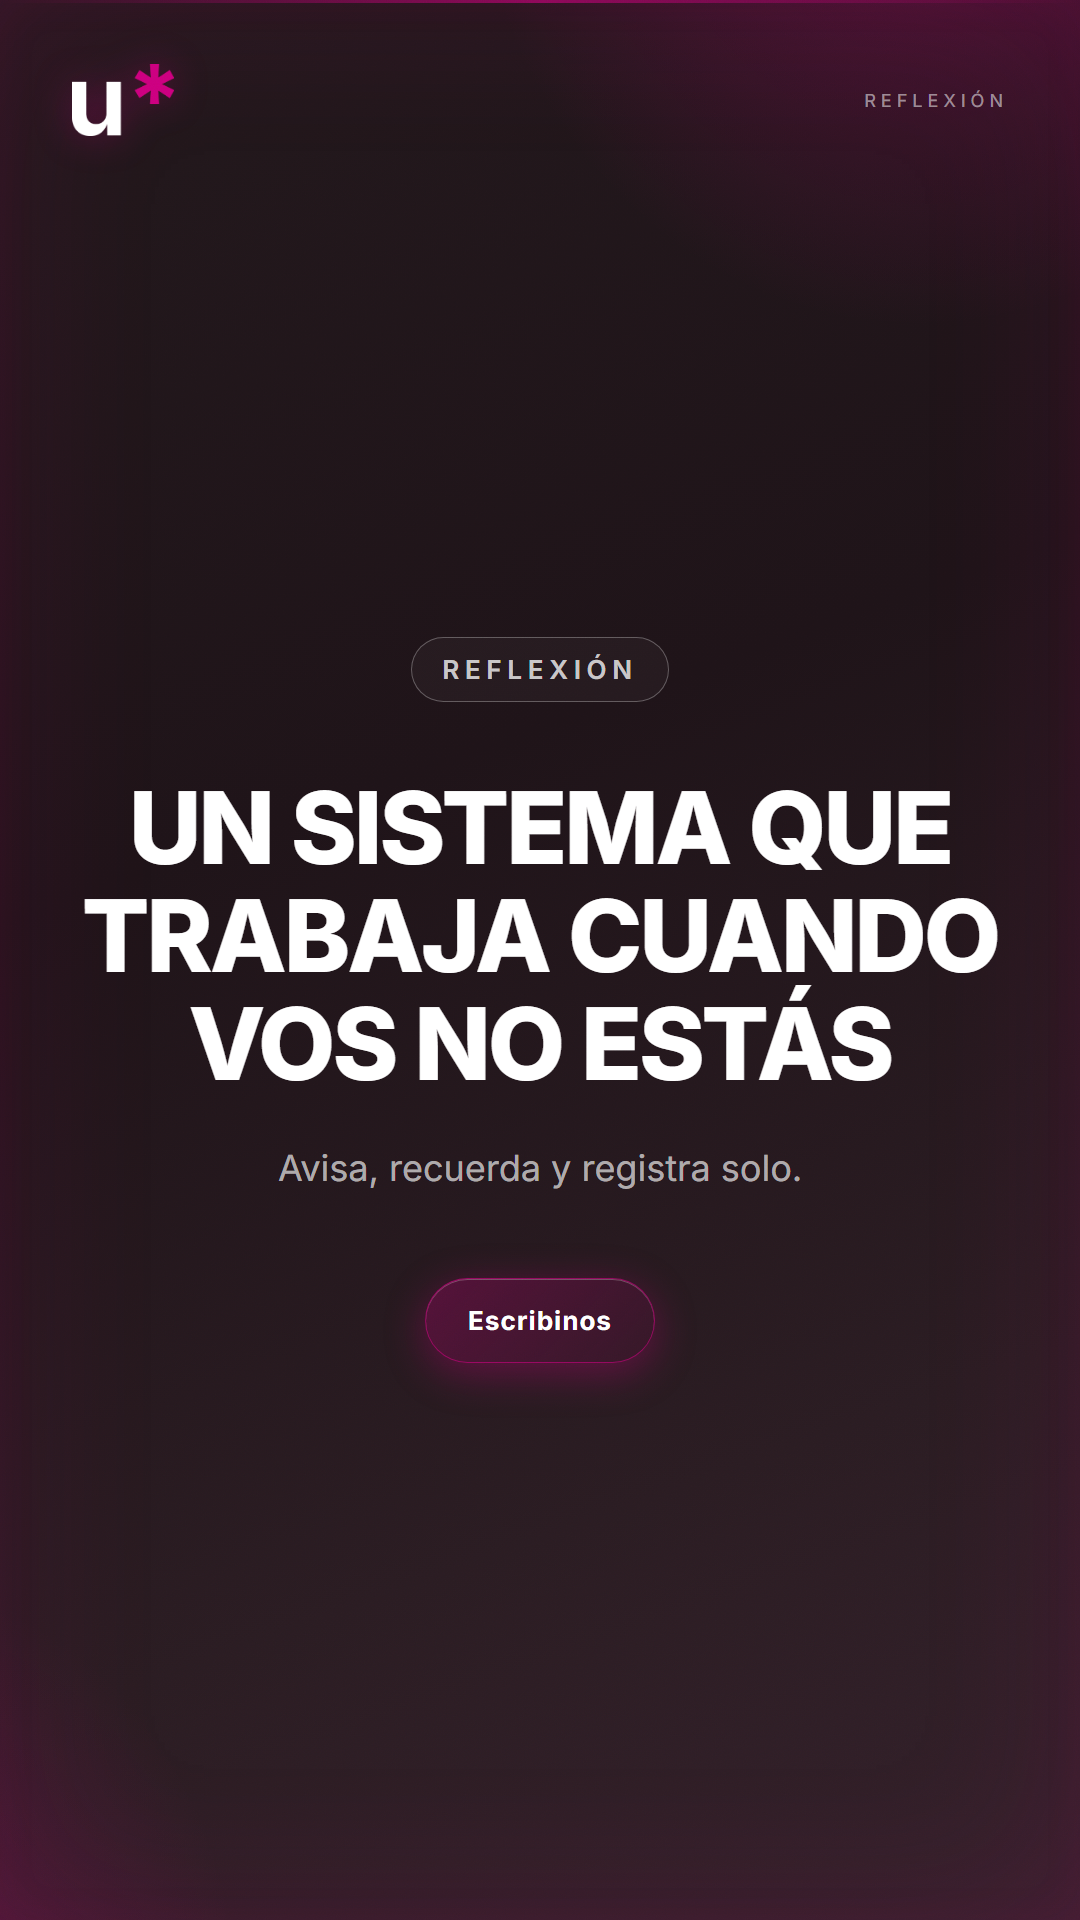
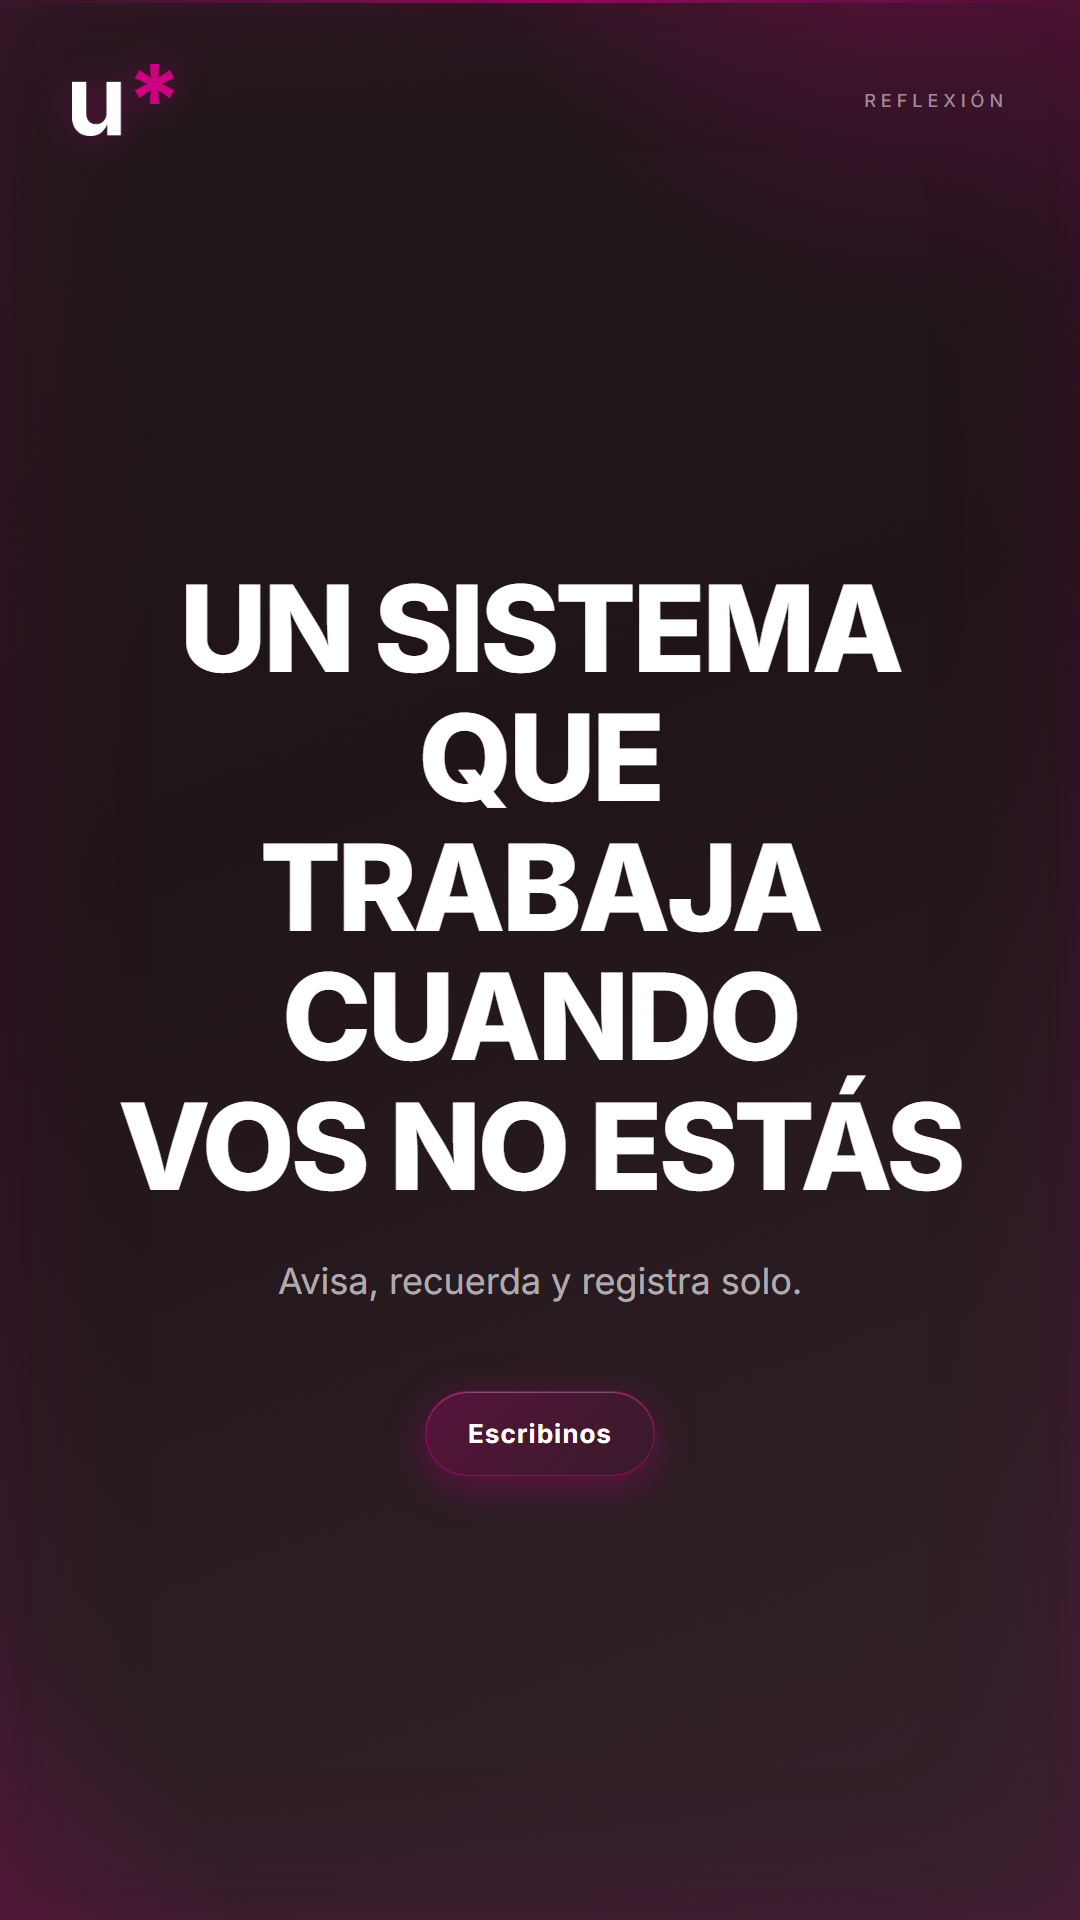
fix(stories): sacar kicker, titulo a 120px

Changed region(s): [[0.0611, 0.2812, 0.9472, 0.625], [0.2444, 0.6562, 0.7333, 0.7812]]

diff --git a/stories/story-04/story.html b/stories/story-04/story.html
@@ -226,10 +226,9 @@ h1 .strike::after{content:"";position:absolute;left:-8px;right:-8px;top:54%;heig
 .scene .author .who{font-size:22px;font-weight:700;color:var(--w100)}
 .scene .author .who small{display:block;font-size:17px;font-weight:500;color:var(--w50)}
 
-.cover h1{font-size:100px;margin-top:64px}
+.cover h1{font-size:120px;margin-top:40px}
 .cover .sub{margin-top:48px;font-size:36px;max-width:860px}
 .cover .cta{margin-top:88px}
-.cover .kicker{margin-bottom:8px;font-size:26px}
 html,body{width:1080px;height:1920px;overflow:hidden}.slide{width:1080px;height:1920px}</style>
 </head>
 <body class="">
@@ -241,7 +240,6 @@ html,body{width:1080px;height:1920px;overflow:hidden}.slide{width:1080px;height:
     <div class="tag">REFLEXIÓN</div>
   </header>
   <main class="cover">
-    <div class="kicker">Reflexión</div>
     <h1>
       <span>UN SISTEMA QUE</span><br><span>TRABAJA CUANDO</span><br><span>VOS <teal>NO ESTÁS</teal></span>
     </h1>

diff --git a/stories/story-09/story.html b/stories/story-09/story.html
@@ -226,10 +226,9 @@ h1 .strike::after{content:"";position:absolute;left:-8px;right:-8px;top:54%;heig
 .scene .author .who{font-size:22px;font-weight:700;color:var(--w100)}
 .scene .author .who small{display:block;font-size:17px;font-weight:500;color:var(--w50)}
 
-.cover h1{font-size:100px;margin-top:64px}
+.cover h1{font-size:120px;margin-top:40px}
 .cover .sub{margin-top:48px;font-size:36px;max-width:860px}
 .cover .cta{margin-top:88px}
-.cover .kicker{margin-bottom:8px;font-size:26px}
 html,body{width:1080px;height:1920px;overflow:hidden}.slide{width:1080px;height:1920px}</style>
 </head>
 <body class="light">
@@ -241,7 +240,6 @@ html,body{width:1080px;height:1920px;overflow:hidden}.slide{width:1080px;height:
     <div class="tag">WHATSAPP</div>
   </header>
   <main class="cover">
-    <div class="kicker">WhatsApp</div>
     <h1>
       <span>TU WHATSAPP PUEDE</span><br><span>VENDER MIENTRAS</span><br><span><mag>DORMÍS</mag></span>
     </h1>

diff --git a/stories/story-07/story.html b/stories/story-07/story.html
@@ -226,10 +226,9 @@ h1 .strike::after{content:"";position:absolute;left:-8px;right:-8px;top:54%;heig
 .scene .author .who{font-size:22px;font-weight:700;color:var(--w100)}
 .scene .author .who small{display:block;font-size:17px;font-weight:500;color:var(--w50)}
 
-.cover h1{font-size:100px;margin-top:64px}
+.cover h1{font-size:120px;margin-top:40px}
 .cover .sub{margin-top:48px;font-size:36px;max-width:860px}
 .cover .cta{margin-top:88px}
-.cover .kicker{margin-bottom:8px;font-size:26px}
 html,body{width:1080px;height:1920px;overflow:hidden}.slide{width:1080px;height:1920px}</style>
 </head>
 <body class="">
@@ -241,7 +240,6 @@ html,body{width:1080px;height:1920px;overflow:hidden}.slide{width:1080px;height:
     <div class="tag">DEUDORES</div>
   </header>
   <main class="cover">
-    <div class="kicker">Deudores</div>
     <h1>
       <span>¿SABÍAS QUE TU SISTEMA</span><br><span>PUEDE COBRAR</span><br><span>POR VOS?</span>
     </h1>

diff --git a/stories/story-15/story.html b/stories/story-15/story.html
@@ -226,10 +226,9 @@ h1 .strike::after{content:"";position:absolute;left:-8px;right:-8px;top:54%;heig
 .scene .author .who{font-size:22px;font-weight:700;color:var(--w100)}
 .scene .author .who small{display:block;font-size:17px;font-weight:500;color:var(--w50)}
 
-.cover h1{font-size:100px;margin-top:64px}
+.cover h1{font-size:120px;margin-top:40px}
 .cover .sub{margin-top:48px;font-size:36px;max-width:860px}
 .cover .cta{margin-top:88px}
-.cover .kicker{margin-bottom:8px;font-size:26px}
 html,body{width:1080px;height:1920px;overflow:hidden}.slide{width:1080px;height:1920px}</style>
 </head>
 <body class="light">
@@ -241,7 +240,6 @@ html,body{width:1080px;height:1920px;overflow:hidden}.slide{width:1080px;height:
     <div class="tag">CIERRE DEL DÍA</div>
   </header>
   <main class="cover">
-    <div class="kicker">Cierre del día</div>
     <h1>
       <span>EL CIERRE SON</span><br><span><teal>5 MINUTOS</teal></span>
     </h1>

diff --git a/stories/story-10/story.html b/stories/story-10/story.html
@@ -226,10 +226,9 @@ h1 .strike::after{content:"";position:absolute;left:-8px;right:-8px;top:54%;heig
 .scene .author .who{font-size:22px;font-weight:700;color:var(--w100)}
 .scene .author .who small{display:block;font-size:17px;font-weight:500;color:var(--w50)}
 
-.cover h1{font-size:100px;margin-top:64px}
+.cover h1{font-size:120px;margin-top:40px}
 .cover .sub{margin-top:48px;font-size:36px;max-width:860px}
 .cover .cta{margin-top:88px}
-.cover .kicker{margin-bottom:8px;font-size:26px}
 html,body{width:1080px;height:1920px;overflow:hidden}.slide{width:1080px;height:1920px}</style>
 </head>
 <body class="">
@@ -241,7 +240,6 @@ html,body{width:1080px;height:1920px;overflow:hidden}.slide{width:1080px;height:
     <div class="tag">PRECIOS</div>
   </header>
   <main class="cover">
-    <div class="kicker">Precios</div>
     <h1>
       <span>PRECIOS CLAROS,</span><br><span>SIN <strike>LETRA CHICA</strike></span>
     </h1>

diff --git a/stories/story-02/story.html b/stories/story-02/story.html
@@ -226,10 +226,9 @@ h1 .strike::after{content:"";position:absolute;left:-8px;right:-8px;top:54%;heig
 .scene .author .who{font-size:22px;font-weight:700;color:var(--w100)}
 .scene .author .who small{display:block;font-size:17px;font-weight:500;color:var(--w50)}
 
-.cover h1{font-size:100px;margin-top:64px}
+.cover h1{font-size:120px;margin-top:40px}
 .cover .sub{margin-top:48px;font-size:36px;max-width:860px}
 .cover .cta{margin-top:88px}
-.cover .kicker{margin-bottom:8px;font-size:26px}
 html,body{width:1080px;height:1920px;overflow:hidden}.slide{width:1080px;height:1920px}</style>
 </head>
 <body class="magenta">
@@ -241,7 +240,6 @@ html,body{width:1080px;height:1920px;overflow:hidden}.slide{width:1080px;height:
     <div class="tag">REFLEXIÓN</div>
   </header>
   <main class="cover">
-    <div class="kicker">Reflexión</div>
     <h1>
       <span>LA CAJA CIERRA</span><br><span><teal>SOLA</teal></span>
     </h1>

diff --git a/stories/story-12/story.html b/stories/story-12/story.html
@@ -226,10 +226,9 @@ h1 .strike::after{content:"";position:absolute;left:-8px;right:-8px;top:54%;heig
 .scene .author .who{font-size:22px;font-weight:700;color:var(--w100)}
 .scene .author .who small{display:block;font-size:17px;font-weight:500;color:var(--w50)}
 
-.cover h1{font-size:100px;margin-top:64px}
+.cover h1{font-size:120px;margin-top:40px}
 .cover .sub{margin-top:48px;font-size:36px;max-width:860px}
 .cover .cta{margin-top:88px}
-.cover .kicker{margin-bottom:8px;font-size:26px}
 html,body{width:1080px;height:1920px;overflow:hidden}.slide{width:1080px;height:1920px}</style>
 </head>
 <body class="light">
@@ -241,7 +240,6 @@ html,body{width:1080px;height:1920px;overflow:hidden}.slide{width:1080px;height:
     <div class="tag">TIEMPO</div>
   </header>
   <main class="cover">
-    <div class="kicker">Tiempo</div>
     <h1>
       <span>¿CUÁNTAS HORAS PERDÉS</span><br><span>ANOTANDO A MANO?</span>
     </h1>

diff --git a/stories/story-01/story.html b/stories/story-01/story.html
@@ -226,10 +226,9 @@ h1 .strike::after{content:"";position:absolute;left:-8px;right:-8px;top:54%;heig
 .scene .author .who{font-size:22px;font-weight:700;color:var(--w100)}
 .scene .author .who small{display:block;font-size:17px;font-weight:500;color:var(--w50)}
 
-.cover h1{font-size:100px;margin-top:64px}
+.cover h1{font-size:120px;margin-top:40px}
 .cover .sub{margin-top:48px;font-size:36px;max-width:860px}
 .cover .cta{margin-top:88px}
-.cover .kicker{margin-bottom:8px;font-size:26px}
 html,body{width:1080px;height:1920px;overflow:hidden}.slide{width:1080px;height:1920px}</style>
 </head>
 <body class="">
@@ -241,7 +240,6 @@ html,body{width:1080px;height:1920px;overflow:hidden}.slide{width:1080px;height:
     <div class="tag">TODOS LOS DÍAS</div>
   </header>
   <main class="cover">
-    <div class="kicker">Todos los días</div>
     <h1>
       <span>¿CUÁNTO VENDISTE</span><br><span>HOY?</span>
     </h1>

diff --git a/stories/story-03/story.html b/stories/story-03/story.html
@@ -226,10 +226,9 @@ h1 .strike::after{content:"";position:absolute;left:-8px;right:-8px;top:54%;heig
 .scene .author .who{font-size:22px;font-weight:700;color:var(--w100)}
 .scene .author .who small{display:block;font-size:17px;font-weight:500;color:var(--w50)}
 
-.cover h1{font-size:100px;margin-top:64px}
+.cover h1{font-size:120px;margin-top:40px}
 .cover .sub{margin-top:48px;font-size:36px;max-width:860px}
 .cover .cta{margin-top:88px}
-.cover .kicker{margin-bottom:8px;font-size:26px}
 html,body{width:1080px;height:1920px;overflow:hidden}.slide{width:1080px;height:1920px}</style>
 </head>
 <body class="light">
@@ -241,7 +240,6 @@ html,body{width:1080px;height:1920px;overflow:hidden}.slide{width:1080px;height:
     <div class="tag">PREGUNTA</div>
   </header>
   <main class="cover">
-    <div class="kicker">Pregunta</div>
     <h1>
       <span>¿TU STOCK ESTÁ</span><br><span>EN TU CABEZA?</span>
     </h1>

diff --git a/stories/story-08/story.html b/stories/story-08/story.html
@@ -226,10 +226,9 @@ h1 .strike::after{content:"";position:absolute;left:-8px;right:-8px;top:54%;heig
 .scene .author .who{font-size:22px;font-weight:700;color:var(--w100)}
 .scene .author .who small{display:block;font-size:17px;font-weight:500;color:var(--w50)}
 
-.cover h1{font-size:100px;margin-top:64px}
+.cover h1{font-size:120px;margin-top:40px}
 .cover .sub{margin-top:48px;font-size:36px;max-width:860px}
 .cover .cta{margin-top:88px}
-.cover .kicker{margin-bottom:8px;font-size:26px}
 html,body{width:1080px;height:1920px;overflow:hidden}.slide{width:1080px;height:1920px}</style>
 </head>
 <body class="magenta">
@@ -241,7 +240,6 @@ html,body{width:1080px;height:1920px;overflow:hidden}.slide{width:1080px;height:
     <div class="tag">COBRANZA</div>
   </header>
   <main class="cover">
-    <div class="kicker">Cobranza</div>
     <h1>
       <span>MENOS PERSEGUIR,</span><br><span>MÁS COBRAR</span>
     </h1>

diff --git a/stories/story-11/story.html b/stories/story-11/story.html
@@ -226,10 +226,9 @@ h1 .strike::after{content:"";position:absolute;left:-8px;right:-8px;top:54%;heig
 .scene .author .who{font-size:22px;font-weight:700;color:var(--w100)}
 .scene .author .who small{display:block;font-size:17px;font-weight:500;color:var(--w50)}
 
-.cover h1{font-size:100px;margin-top:64px}
+.cover h1{font-size:120px;margin-top:40px}
 .cover .sub{margin-top:48px;font-size:36px;max-width:860px}
 .cover .cta{margin-top:88px}
-.cover .kicker{margin-bottom:8px;font-size:26px}
 html,body{width:1080px;height:1920px;overflow:hidden}.slide{width:1080px;height:1920px}</style>
 </head>
 <body class="magenta">
@@ -241,7 +240,6 @@ html,body{width:1080px;height:1920px;overflow:hidden}.slide{width:1080px;height:
     <div class="tag">VALORES</div>
   </header>
   <main class="cover">
-    <div class="kicker">Valores</div>
     <h1>
       <span>VOS SOS EL DUEÑO</span><br><span>DE TUS DATOS</span>
     </h1>

diff --git a/stories/story-06/story.html b/stories/story-06/story.html
@@ -226,10 +226,9 @@ h1 .strike::after{content:"";position:absolute;left:-8px;right:-8px;top:54%;heig
 .scene .author .who{font-size:22px;font-weight:700;color:var(--w100)}
 .scene .author .who small{display:block;font-size:17px;font-weight:500;color:var(--w50)}
 
-.cover h1{font-size:100px;margin-top:64px}
+.cover h1{font-size:120px;margin-top:40px}
 .cover .sub{margin-top:48px;font-size:36px;max-width:860px}
 .cover .cta{margin-top:88px}
-.cover .kicker{margin-bottom:8px;font-size:26px}
 html,body{width:1080px;height:1920px;overflow:hidden}.slide{width:1080px;height:1920px}</style>
 </head>
 <body class="light">
@@ -241,7 +240,6 @@ html,body{width:1080px;height:1920px;overflow:hidden}.slide{width:1080px;height:
     <div class="tag">CTA</div>
   </header>
   <main class="cover">
-    <div class="kicker">Urquisoft</div>
     <h1>
       <span>ESCRIBINOS Y</span><br><span>TE MOSTRAMOS CÓMO</span>
     </h1>
